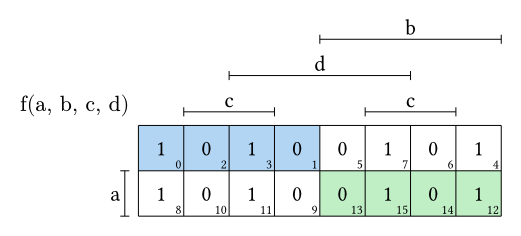
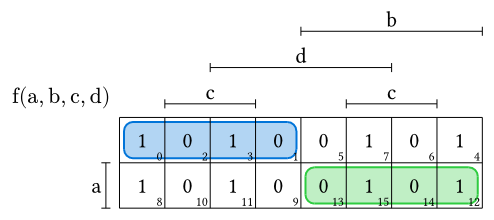
initial release of karnaugh-express 0.1.1

diff --git a/README.md b/README.md
@@ -6,13 +6,13 @@
 
 The `karnaugh` function takes two necessary arguments: `variables` and `values`. The parameter `terms` is optional and lets you select cells in the Karnaugh map without the hassle of specifying coordinates:
 
-```ts
-import "@preview/karnaugh-express:0.1.0": *
+```typ
+#import "@preview/karnaugh-express:0.1.1": karnaugh
 
 #karnaugh(
   ("d", "c", "b", "a"),
   (1, 0, 0, 1, 1, 0, 0, 1, 1, 0, 0, 1, 1, 0, 0, 1),
-  terms: ("!b, !a", "a, b")
+  terms: ("!b & !a", "a & b")
 )
 ```
 <img src="examples/example-1.png" width="250" alt = "A 4x4 Karnaugh map for variables d, c, b, and a. It shows blue highlights on the four corners and a green highlight on the central 2x2 square.">  
@@ -32,8 +32,8 @@ Values are automatically placed so that you can read them directly from a truth 
 | 1 | 1 | 0 | 6        |
 | 1 | 1 | 1 | 7        |
 
-```ts
-import "@preview/karnaugh-express:0.1.0": *
+```typ
+#import "@preview/karnaugh-express:0.1.1": karnaugh
 
 #karnaugh(
   ("a", "b", "c"),
@@ -41,7 +41,7 @@ import "@preview/karnaugh-express:0.1.0": *
   arrangement-standard: 1
 )
 ```
-<img src="examples/example-3.png" width="250" alt = "A 2x4 Karnaugh map for variables a, b, and c. Each cell contains its corresponding decimal index (0 through 7) to demonstrate how values from a truth table are mapped to the grid.">
+<img src="examples/example-2.png" width="250" alt = "A 2x4 Karnaugh map for variables a, b, and c. Each cell contains its corresponding decimal index (0 through 7) to demonstrate how values from a truth table are mapped to the grid.">
 
 ## Arranging Variables on the Axis
 
@@ -50,43 +50,64 @@ There are different ways of arranging variables on a Karnaugh map. One is the st
 
 `arrangement-standard: 0` is used in the first image. `arrangement-standard: 1` looks like this:
 
-```ts
-import "@preview/karnaugh-express:0.1.0": *
+```typ
+#import "@preview/karnaugh-express:0.1.1": karnaugh
 
 #karnaugh(
   ("a", "b", "c", "d"),
   (1, 0, 0, 1, 1, 0, 0, 1, 1, 0, 0, 1, 1, 0, 0, 1),
   arrangement-standard: 1,
-  terms: ("!b, !a", "a, b")
+  terms: ("!b & !a", "a & b")
 )
 ```
-<img src="examples/example-2.png" width="250" alt = "A 4x4 Karnaugh map for variables a, b, c, and d using arrangement-standard: 1. The vertical bars are now named after the first two variables and the horizontal bars are named after the last two variables.">
+<img src="examples/example-3.png" width="250" alt = "A 4x4 Karnaugh map for variables a, b, c, and d using arrangement-standard: 1. The vertical bars are now named after the first two variables and the horizontal bars are named after the last two variables.">
     
 ### 2. Custom Arrangement
 You can also specify a completely custom arrangement. Just provide an `arrangement` parameter as an array of two arrays. The first array contains the row axis variables, and the second array contains the column axis variables:
 
-```ts
-import "@preview/karnaugh-express:0.1.0": *
+```typ
+#import "@preview/karnaugh-express:0.1.1": karnaugh
 
 #karnaugh(
   ("a", "b", "c", "d"),
   (1, 0, 0, 1, 1, 0, 0, 1, 1, 0, 0, 1, 1, 0, 0, 1),
   arrangement: (("a",), ("b", "d", "c")),
-  terms: ("!b, !a", "a, b")
+  terms: ("!b & !a", "a & b")
 )
 ```
 <img src="examples/example-4.png" width="250" alt = "A 2x8 Karnaugh map demonstrating a custom arrangement where variable a is on the vertical bar and b, d, c are on the horizontal bars.">
 
 ## Terms 
 
-To select cells in the K-map, you need to pass the `terms` parameter, which is an array of strings. Each element of the array represents a separate term. In the string, you need to separate each literal with a comma (`,`). If the variable should be `0`, put an exclamation mark (`!`) before the variable.
+To select cells in the K-map, you need to pass the `terms` parameter, which is an array of strings. Each element of the array represents a separate term. In the string, you need to separate each literal with a ampersand (`&`). If the variable should be `0`, put an exclamation mark (`!`) before the variable.
+
+Term highlighting supports automatic wraparound grouping across opposing edges of the Karnaugh map.
+
+### Gaps
+Use highlight-inset to control the gap between the grid and a highlight outline.
+
+When multiple highlights overlap, readability can be improved by varying the inset for each term. The amount by which successive highlights are offset is determined by highlight-stroke. Use highlight-steps to specify how many different inset levels should be used before the pattern repeats.
+
+```typ
+#import "@preview/karnaugh-express:0.1.1": karnaugh
+
+#karnaugh(
+  ("a", "b", "c", "d"),
+  (),
+  var-disp: ($x_1$, $x_2$, $x_3$, $x_4$), 
+  terms: ("c", "a & b", "b & d"),
+  highlight-inset: 0.1, 
+  highlight-steps: 3,
+)
+```
+<img src="examples/example-5.png" width="250" alt = "A 4×4 Karnaugh map with three highlighted terms using different outline inset levels to keep overlapping highlights visually distinct.">
 
 ## Display Variables
 
 Because the variables you pass into the `karnaugh` function fulfill a functional purpose (used to specify which cells should be highlighted), they cannot be passed in math mode. This is what the `var-disp` parameter is for. Just create a second array detailing how you want each variable to be displayed, in the exact same order as your functional variables:
 
-```ts
-import "@preview/karnaugh-express:0.1.0": *
+```typ
+#import "@preview/karnaugh-express:0.1.1": karnaugh
 
 #karnaugh(
   ("a", "b", "c", "d"),
@@ -94,27 +115,33 @@ import "@preview/karnaugh-express:0.1.0": *
   var-disp: ($x_1$, $x_2$, $x_3$, $x_4$)
 )
 ```
-<img src="examples/example-5.png" width="250" alt = "The grid is arranged in the same way as the first example. However, the bars are no longer labeled a, b, c, d but instead x_1, x_2, x_3 and x_4 in math-mode.">
+<img src="examples/example-6.png" width="250" alt = "The grid is arranged in the same way as the first example. However, the bars are no longer labeled a, b, c, d but instead x_1, x_2, x_3 and x_4 in math-mode.">
     
 ## Other Parameters
 
 | Parameter | Default | Type | Explanation |
 | --- | --- | --- | --- |
-| `arrangement` | Calculated | `((string,), (string,))` | Explained above |
+| `arrangement` | `auto` | `((string,), (string,))` | Explained above |
 | `arrangement-standard` | `0` | `1` or `0` | Explained above |
-| `terms` | `("",)` | `(string,)`| Explained above |
+| `terms` | `()` | `(string,)`| Explained above |
 | `var-disp` | Same as `variables` | `(content,)` | Explained above |
-| `stroke` | `0.5pt` | `length` | The width of all lines |
+| `stroke` | `0.5pt` | `length` | The width of the grid lines and the bars |
 | `grid-size` | `0.8cm` | `length` | The size of the grid cells |
 | `draw-subscripts` | `true` | `bool` | Turns the cell index subscripts on or off |
-| `transparency` | `70%` | `ratio` | Determines the transparency of the cell highlight colors |
-| `colors` | `(blue, green, yellow, purple, red)` | `(color,)` | The colors used for cell selection. The package loops through them. |
-| `default-fill` | `""` | `string` | When some values aren't provided, cells will be filled with this placeholder |
+| `highlight-transparency` | `70%` | `ratio` | Determines the transparency of the cell highlight colors |
+| `highlight-colors` | `(blue, green, yellow, purple, red)` | `(color,)` | The colors used for cell selection. The package loops through them. |
+| `highlight-radius` | `0.2` | `float` | The radius of the rounded corners of the cell highlights |
+| `highlight-inset` | `0.1` | `float` | Size of the gap between the grid and the boxes used for the cell highlights |
+| `highlight-stroke` | `0.5pt` | `length` | Stroke thickness for term outlines |
+| `highlight-steps` | `1` | `int` | How often the highlight-gap will increase in order to prevent overlap |
+| `default-fill` | `none` | `content` | When some values aren't provided, cells will be filled with this placeholder |
 | `value-size` | `1em` | `relative length` | Font size of the values |
 | `subscript-size` | `0.6em` | `relative length` | Font size of the subscripts |
-| `distance-subscript-corner` | `0.05` | `length` | Distance from the corner of the grid to the subscripts |
-| `distance-bar-grid` | `0.3` | `length` | Distance from one bar to the other |
-| `distance-bar-letter` | `0.1` | `length` | Distance from the letters (variables) to the bars |
-| `small-bar-len` | `0.1` | `length` | The length of the small lines (or half of it) |
-| `label` | Calculated | `content` | The "title" of the map. Use `none` if you want no label. |
-| `label-position` | `(0.2, 0.2)` | `(length, length)` | The position of the label relative to the upper left corner of the grid |
+| `distance-subscript-corner` | `0.05` | `float` | Distance from the corner of the grid to the subscripts |
+| `distance-bar-grid` | `0.3` | `float` | Distance from one bar to the grid |
+| `distance-bar-bar` | `0.8` | `float` | Distance between adjacent bars |
+| `distance-bar-letter` | `0.1` | `float` | Distance from the letters (variables) to the bars |
+| `small-bar-len` | `0.1` | `float` | The length of the small lines (or half of it) |
+| `function-name` | `"f"` | `content` | The function name used in the autogenerated "title" of the map |
+| `label` | `auto` | `content` | The label shown in the upper-left corner of the map. |
+| `label-position` | `(0.2, 0.2)` | `(float, float)` | The position of the label relative to the upper left corner of the grid |
